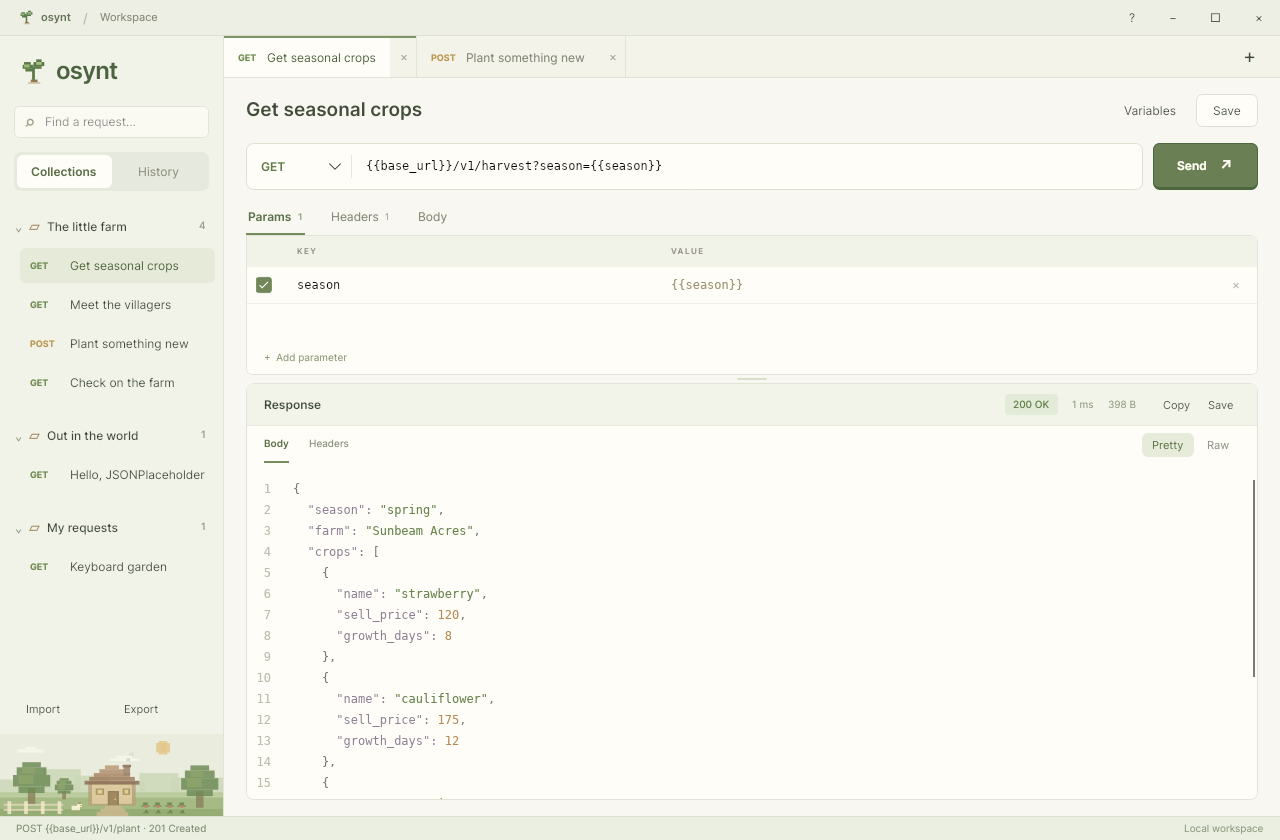
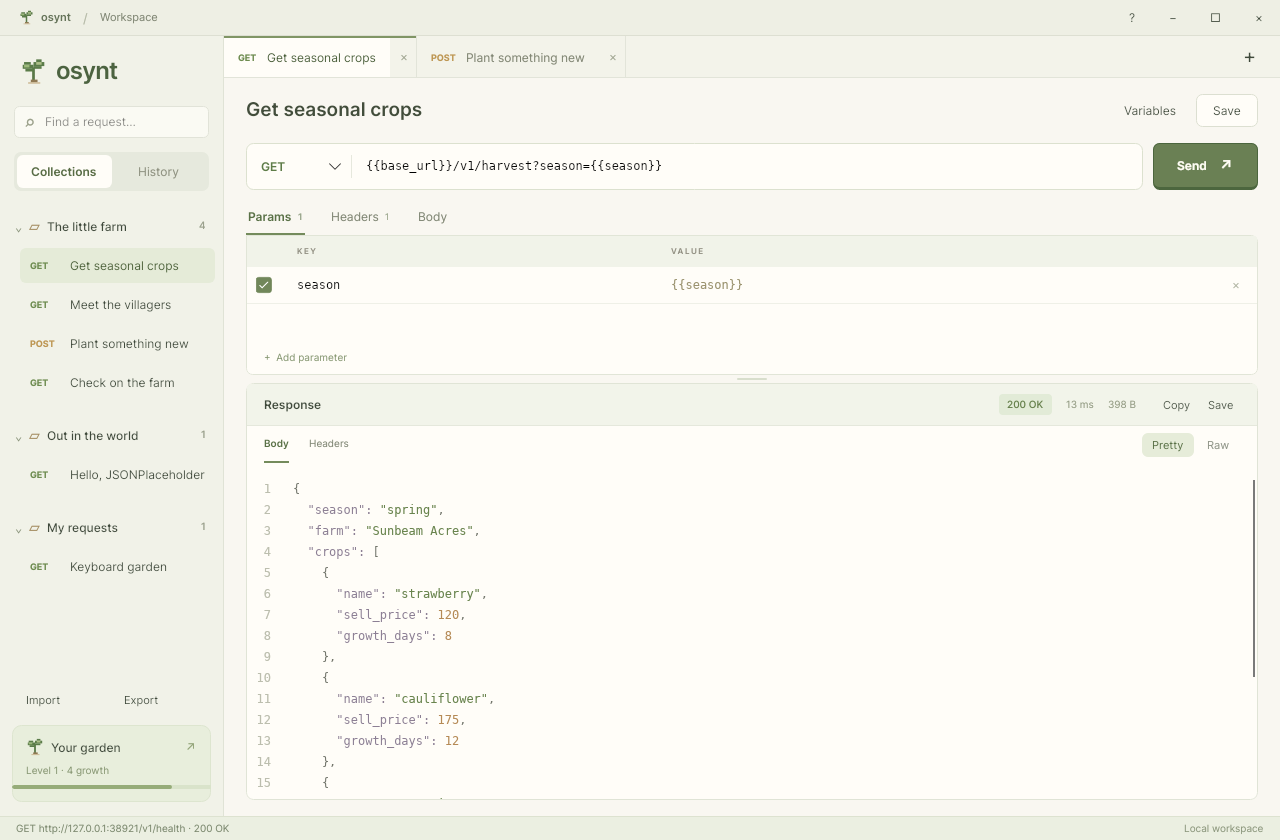
Verify native Windows WebGL packaging and document the living garden

Changed region(s): [[0.0, 0.8357, 0.1875, 0.9905], [0.7812, 0.4643, 0.8125, 0.4952], [0.0938, 0.8357, 0.125, 0.8667]]

diff --git a/tests/Osynt.WindowsProbe/Program.cs b/tests/Osynt.WindowsProbe/Program.cs
@@ -1,0 +1,76 @@
+using System.Runtime.Versioning;
+using System.Text.Json;
+using Avalonia;
+using Avalonia.Controls;
+using Avalonia.Controls.ApplicationLifetimes;
+using Avalonia.Threading;
+using Osynt.Desktop.Rendering;
+
+namespace Osynt.WindowsProbe;
+
+internal static class Program
+{
+    internal static string OutputPath { get; private set; } = "";
+    [STAThread]
+    public static int Main(string[] args)
+    {
+        if (!OperatingSystem.IsWindows()) { Console.Error.WriteLine("This probe runs on Windows."); return 1; }
+        OutputPath = args.Length == 1 ? Path.GetFullPath(args[0]) : Path.Combine(Path.GetTempPath(), "osynt-windows-garden.png");
+        Directory.CreateDirectory(Path.GetDirectoryName(OutputPath)!);
+        return AppBuilder.Configure<ProbeApplication>().UsePlatformDetect().StartWithClassicDesktopLifetime(args);
+    }
+}
+
+[SupportedOSPlatform("windows")]
+public sealed class ProbeApplication : Avalonia.Application
+{
+    public override void Initialize() => Styles.Add(new Avalonia.Themes.Fluent.FluentTheme());
+    public override void OnFrameworkInitializationCompleted()
+    {
+        if (ApplicationLifetime is IClassicDesktopStyleApplicationLifetime lifetime)
+        {
+            // Exercise the actual native host offscreen, without opening a user-facing app window.
+            var host = new WindowsGardenHost();
+            var window = new Window
+            {
+                Width = 1120, Height = 760, ShowInTaskbar = false, CanResize = false,
+                WindowStartupLocation = WindowStartupLocation.Manual, Position = new PixelPoint(-24000, -24000),
+                SystemDecorations = SystemDecorations.None, Content = host, Title = "Osynt renderer verification"
+            };
+            lifetime.MainWindow = window;
+            var finished = false;
+            void Fail(string message)
+            {
+                if (finished) return;
+                finished = true;
+                Console.Error.WriteLine(message);
+                File.WriteAllText(Program.OutputPath + ".json", JsonSerializer.Serialize(new { ok = false, error = message }));
+                lifetime.Shutdown(1);
+            }
+            host.RendererFailed += (_, message) => Fail(message);
+            host.MessageReceived += async (_, message) =>
+            {
+                try
+                {
+                    using var payload = JsonDocument.Parse(message);
+                    if (!payload.RootElement.TryGetProperty("type", out var type)) return;
+                    if (type.GetString() == "renderer-error") { Fail(message); return; }
+                    if (type.GetString() != "ready" || finished) return;
+                    var info = await host.CaptureDiagnosticsAsync(Program.OutputPath);
+                    using var result = JsonDocument.Parse(info);
+                    if (!result.RootElement.GetProperty("renderer").GetString()!.Contains("WebGL") ||
+                        result.RootElement.GetProperty("successes").GetInt32() != 75)
+                    { Fail("The native renderer did not report a valid 3D frame."); return; }
+                    File.WriteAllText(Program.OutputPath + ".json", info);
+                    Console.WriteLine("PASS Native Windows WebView2, WebGL scene, bundled assets, and single-file loader");
+                    Console.WriteLine(info);
+                    finished = true;
+                    lifetime.Shutdown(0);
+                }
+                catch (Exception error) { Fail(error.ToString()); }
+            };
+            DispatcherTimer.RunOnce(() => Fail("Windows garden initialization timed out."), TimeSpan.FromSeconds(45));
+        }
+        base.OnFrameworkInitializationCompleted();
+    }
+}

diff --git a/src/Osynt.Desktop/Rendering/WindowsGardenHost.cs b/src/Osynt.Desktop/Rendering/WindowsGardenHost.cs
@@ -88,7 +88,7 @@ public sealed class WindowsGardenHost : NativeControlHost
             browser.ProcessFailed += (_, _) => RendererFailed?.Invoke(this, "The garden renderer stopped. Close and reopen Osynt to reconnect.");
             browser.Navigate(Origin + "/index.html");
         }
-        catch (Exception error) when (error is COMException or WebView2RuntimeNotFoundException or DllNotFoundException or IOException or UnauthorizedAccessException or InvalidOperationException)
+        catch (Exception error) when (error is COMException or WebView2RuntimeNotFoundException or DllNotFoundException or IOException or UnauthorizedAccessException or InvalidOperationException or ArgumentException)
         {
             if (generation == _generation)
                 RendererFailed?.Invoke(this, "The 3D garden needs the Microsoft Edge WebView2 Runtime. Your requests and garden progress are still saved. " + error.Message);

diff --git a/README.md b/README.md
@@ -1,6 +1,8 @@
 # Osynt 🌱
 
-A cozy, local-first HTTP client built with **Avalonia and .NET 10**. Postman-style essentials, with parchment, sage green, and an original pixel-art farm. No account or login required.
+A cozy, local-first HTTP client built with **Avalonia and .NET 10**. Postman-style essentials, with a living 3D garden that grows from successful requests. No account or login required.
+
+![The 3D garden at 75 successful requests](docs/screenshots/garden-day.png)
 
 ![Osynt desktop preview](docs/screenshots/osynt-preview.png)
 
@@ -47,6 +49,25 @@ Query parameters stay synchronized between the URL and Params table. Pasting ano
 
 The **Variables** button edits values used as `{{name}}` in URLs, parameters, headers, and bodies. No environment setup is required for a literal URL.
 
+### Grow your garden
+
+Click **Your garden** in the sidebar or press **Ctrl / ⌘ + G**. Every completed **2xx response** adds one growth point. Plants grow from seed to sprout to bloom over three successes. Failed, cancelled, and non-2xx requests do not grant growth. You can keep sending your current request from the garden, or click **Try demo** to send a real GET request to the local Harvest API.
+
+| Successful requests | New life |
+| --- | --- |
+| 1 | First seed |
+| 5 | Wildflower meadow |
+| 12 | Orchard and butterflies |
+| 24 | Pond, lily pads, and a little bridge |
+| 40 | Cottage with glowing windows and chimney smoke |
+| 75 | Greenhouse |
+| 120 | Lanterns |
+| 200+ | Additional garden islands |
+
+Drag to orbit, scroll to zoom, or use the camera buttons. Click a plant to inspect it. **Dusk** brings out fireflies and warm window light; the motion button turns off wind, fluttering, and particle animations. Atmosphere and motion preferences save locally. Growth survives restarts and clearing request history. Existing workspaces receive credit for 2xx responses still present in their history when first migrated.
+
+The garden uses real Three.js geometry, soft shadows, multisample antialiasing, bloom, animated water, drifting particles, and spring growth animations. Tailwind styles the garden dashboard. The interactive renderer runs in the **native Windows build through WebView2**, using bundled local assets and no CDN or external page requests. Windows needs the [WebView2 Runtime](https://learn.microsoft.com/en-us/microsoft-edge/webview2/concepts/distribution), normally present on Windows 11. The WSL/Linux UI displays saved garden progress; launch the Windows build for the interactive scene. Detailed visible geometry is bounded to keep rendering responsive while lifetime progress continues accumulating.
+
 ### ASP.NET Core in WSL
 
 Use the exact address and port printed by `dotnet run` under **Now listening on**. A Windows Osynt build can connect to an API in WSL through `http://localhost:<port>/health`; no query parameters or headers are required for an ordinary health endpoint. A connection refusal usually means that nothing is listening at the selected address or port. Osynt displays the failed host and port in the response pane.
@@ -70,6 +91,7 @@ If the API uses HTTPS, its WSL development certificate may need to be trusted in
 | Ctrl / ⌘ + S | Save request |
 | Ctrl / ⌘ + N | New request |
 | Ctrl / ⌘ + W | Close request tab |
+| Ctrl / ⌘ + G | Open garden |
 
 ### Storage and scope
 
@@ -110,3 +132,16 @@ Osynt.Desktop         Avalonia views, editable view models, and native desktop d
 `App.axaml.cs` is the composition root: it connects infrastructure implementations to application interfaces. The desktop view models depend on application ports and work with separate editable presentation models; domain entities have no binding notifications. Collection saving, environment changes, history limits, and import/export are application use cases. The sidebar, tabs, request header, editor, and response viewer are separate views. Native file pickers and close dialogs live in desktop services.
 
 `tests/Osynt.Checks` is the integration and rendering runner. Formatting conventions are defined in `.editorconfig`; run `dotnet format whitespace --no-restore` to apply them.
+
+`src/Osynt.Garden` contains the modular Three.js scene and Tailwind dashboard. The generated, offline bundle is checked into `src/Osynt.Desktop/Assets/Garden`, so ordinary .NET builds and the Windows executable need no Node installation. After editing renderer source:
+
+```sh
+cd src/Osynt.Garden
+npm ci
+npm run build
+npm run check
+npm exec playwright install chromium
+npm run check:browser
+```
+
+The browser checks render real WebGL frames, verify camera controls, day/dusk, reduced motion, growth particles, and shader errors, and save previews under `artifacts/garden`. `tests/Osynt.WindowsProbe` separately verifies the actual native WebView2 host and single-file DLL loading in an offscreen Windows window, without altering the user's garden. It accepts a PNG output path and exits after verification.
